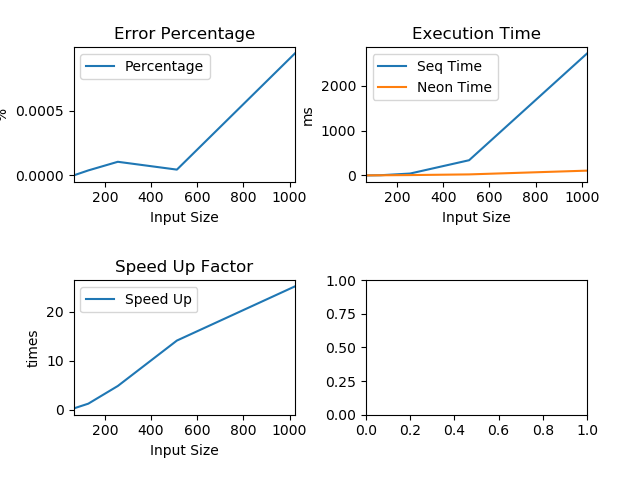
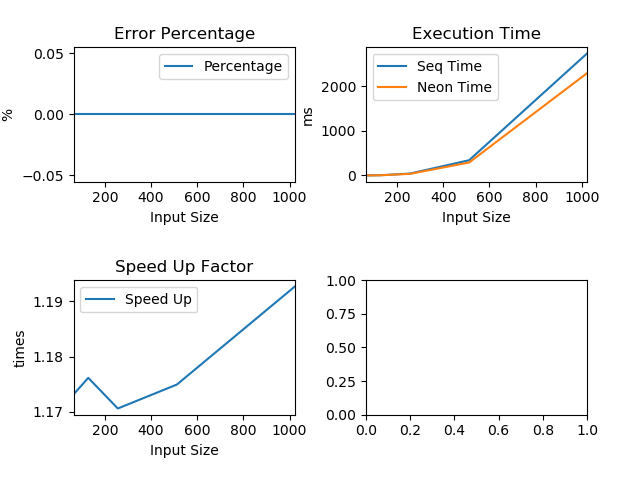
F64 OMP

diff --git a/src/main_omp.cpp b/src/main_omp.cpp
@@ -101,17 +101,19 @@ float **cholesky_f32(float **L, int n)
 double **cholesky_f64(double **L, int n)
 {
     int i, j, k, num_f64x2x4;
+    float ljj = 0;
 
     float64x2_t lane = vdupq_n_f64(0);
     float64x2x4_t q4, p4;
 
     for (j = 0; j < n; j++)
     {
+        num_f64x2x4 = j / 8;
+
         memset(&L[j][j + 1], 0, sizeof(double) * (n - j - 1));
-        i = j;
 
-        num_f64x2x4 = i / 8;
-
+#pragma omp parallel for reduction(+ \
+                                   : ljj) private(q4, p4, lane)
         for (k = 0; k < num_f64x2x4; k++)
         {
             lane = vdupq_n_f64(0);
@@ -120,20 +122,23 @@ double **cholesky_f64(double **L, int n)
             lane = vmlsq_f64(lane, q4.val[1], q4.val[1]);
             lane = vmlsq_f64(lane, q4.val[2], q4.val[2]);
             lane = vmlsq_f64(lane, q4.val[3], q4.val[3]);
-            L[j][j] += vaddvq_f64(lane);
+            ljj += vaddvq_f64(lane);
         }
 
-        for (k = num_f64x2x4 * 8; k < i; k++)
+#pragma omp parallel for reduction(- \
+                                   : ljj)
+        for (k = num_f64x2x4 * 8; k < j; k++)
         {
-            L[j][j] = fma(-L[j][k], L[j][k], L[j][j]);
+            ljj -= L[j][k] * L[j][k];
         }
 
+        L[j][j] += ljj;
         L[j][j] = sqrt(L[j][j]);
+        ljj = 0;
 
+#pragma omp parallel for private(q4, p4, lane, k)
         for (i = j + 1; i < n; i++)
         {
-            num_f64x2x4 = j / 8;
-
             for (k = 0; k < num_f64x2x4; k++)
             {
                 lane = vdupq_n_f64(0);
